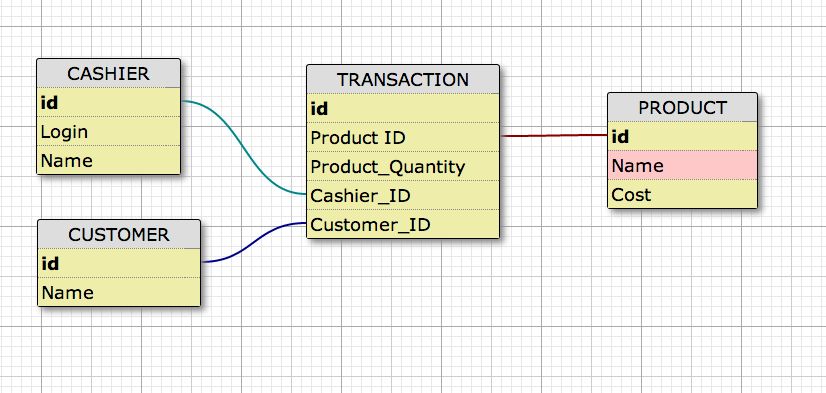
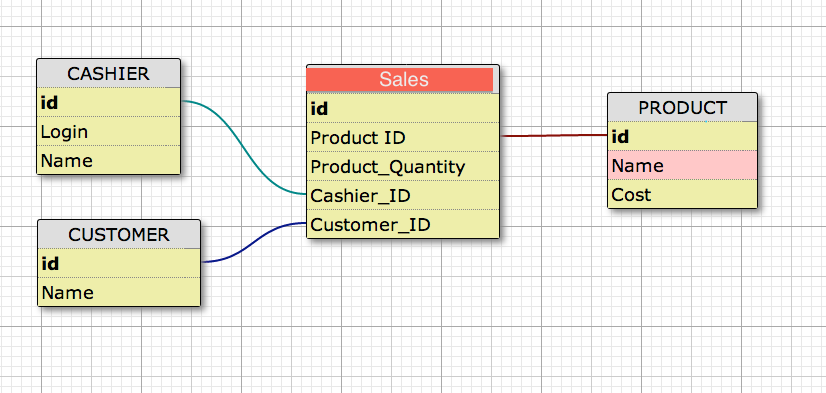
remigrate to clean up a couple of DB fields

Changed region(s): [[0.3632, 0.1527, 0.6053, 0.2443]]

diff --git a/spec/spec_helper.rb b/spec/spec_helper.rb
@@ -1,11 +1,13 @@
 require 'pg'
 require 'active_record'
 require 'rspec'
+require 'shoulda-matchers'
 
 require 'cashier'
 require 'customer'
 require 'product'
-require 'transaction'
+require 'product_sales'
+require 'sale'
 
 ActiveRecord::Base.establish_connection(YAML::load(File.open('./db/config.yml'))["test"])
 
@@ -14,13 +16,15 @@ RSpec.configure do |config|
     Customer.all.each { |customer| customer.destroy }
     Cashier.all.each { |cashier| cashier.destroy }
     Product.all.each { |product| product.destroy }
-    Transaction.all.each { |transaction| transaction.destroy }
+    Sale.all.each { |sale| sale.destroy }
+    Product_Sales.all.each {|product_sale| product_sale.destroy}
   end
 end
 
 def setup
   @test_customer = Customer.new({:name => "Jack Customer"})
   @test_cashier = Cashier.new({:name => "Jill Cashier"})
-  @test_transaction = Transaction.new({:product_id => 1, :product_quantity => 1, :cashier_id => 1, :customer_id => 1})
+  @test_sale = Sale.new({:product_id => 1, :product_quantity => 1, :cashier_id => 1, :customer_id => 1})
   @test_product = Product.new({:name => "Pampers Ultra", :cost => 29.99})
+  @test_product_sales = Product_Sales.new({:product_id => @test_product.id, :sale_id => @test_sale.id})
 end

diff --git a/db/schema.rb b/db/schema.rb
@@ -11,7 +11,7 @@
 #
 # It's strongly recommended that you check this file into your version control system.
 
-ActiveRecord::Schema.define(version: 20140820172950) do
+ActiveRecord::Schema.define(version: 20140820205809) do
 
   # These are extensions that must be enabled in order to support this database
   enable_extension "plpgsql"
@@ -29,14 +29,22 @@ ActiveRecord::Schema.define(version: 20140820172950) do
     t.datetime "updated_at"
   end
 
+  create_table "product_sales", force: true do |t|
+    t.integer  "sale_id"
+    t.integer  "product_id"
+    t.datetime "created_at"
+    t.datetime "updated_at"
+  end
+
   create_table "products", force: true do |t|
     t.string   "name"
     t.float    "cost"
     t.datetime "created_at"
     t.datetime "updated_at"
+    t.integer  "sale_id"
   end
 
-  create_table "transactions", force: true do |t|
+  create_table "sales", force: true do |t|
     t.integer  "product_id"
     t.integer  "product_quantity"
     t.integer  "cashier_id"

diff --git a/spec/sale_spec.rb b/spec/sale_spec.rb
@@ -1,0 +1,24 @@
+require 'spec_helper'
+
+describe Sale do
+  before do
+    setup
+  end
+
+  it {should belong_to :customer}
+  it {should belong_to :cashier}
+
+
+  it 'will store a transaction in the DB' do
+    @test_sale.save
+    expect(Sale.all).to eq [@test_sale]
+  end
+
+  it 'will create a transaction instance with each method details available' do
+    @test_product_sales.save
+    expect(@test_sale.customer_id).to eq 1
+    expect(@test_sale.cashier_id).to eq 1
+    expect(@test_sale.product_id).to eq 1
+    expect(@test_sale.product_quantity).to eq 1
+  end
+end

diff --git a/spec/product_sales_spec.rb b/spec/product_sales_spec.rb
@@ -1,0 +1,14 @@
+require "spec_helper"
+
+describe Product_Sales do
+  before do
+    setup
+  end
+
+  it {should belong_to :sale}
+
+  it "will store a product_sale in the DB" do
+    @test_product_sales.save
+    expect(Product_Sales.all).to eq [@test_product_sales]
+  end
+end

diff --git a/db/migrate/20140820205809_add_timestamp_product_sales.rb b/db/migrate/20140820205809_add_timestamp_product_sales.rb
@@ -1,0 +1,6 @@
+class AddTimestampProductSales < ActiveRecord::Migration
+  def change
+      add_column(:product_sales, :created_at, :datetime)
+      add_column(:product_sales, :updated_at, :datetime)
+  end
+end

diff --git a/db/migrate/20140820205117_create_product_sales.rb b/db/migrate/20140820205117_create_product_sales.rb
@@ -1,0 +1,8 @@
+class CreateProductSales < ActiveRecord::Migration
+  def change
+    create_table :product_sales do |t|
+      t.column :sales_id, :int
+      t.column :product_id, :int
+    end
+  end
+end

diff --git a/spec/customer_spec.rb b/spec/customer_spec.rb
@@ -5,6 +5,8 @@ describe Customer do
     setup
   end
 
+  it {should have_many :sales}
+
   it "exists in the customer table" do
     @test_customer.save
     expect(Customer.all).to eq [@test_customer]

diff --git a/spec/cashier_spec.rb b/spec/cashier_spec.rb
@@ -5,6 +5,8 @@ describe Cashier do
     setup
   end
 
+  it {should have_many :sales}
+
   it 'will store a cashier in the DB' do
     @test_cashier.save
     expect(Cashier.all).to eq [@test_cashier]

diff --git a/spec/product_spec.rb b/spec/product_spec.rb
@@ -5,6 +5,8 @@ describe Product do
     setup
   end
 
+  it {should belong_to :sale}
+
   it "will store a product in the DB" do
     @test_product.save
     expect(Product.all).to eq [@test_product]

diff --git a/db/migrate/20140820205601_change_column_name_product_sales_sales_id.rb b/db/migrate/20140820205601_change_column_name_product_sales_sales_id.rb
@@ -1,0 +1,5 @@
+class ChangeColumnNameProductSalesSalesId < ActiveRecord::Migration
+  def change
+    rename_column(:product_sales, :sales_id, :sale_id)
+  end
+end

diff --git a/lib/customer.rb b/lib/customer.rb
@@ -1,7 +1,4 @@
 class Customer < ActiveRecord::Base
-
-  # def initialize
-
-  # end
-
+  has_many :sales
+  has_many :cashiers, :through => :sales
 end

diff --git a/db/migrate/20140820190740_rename_transaction_table.rb b/db/migrate/20140820190740_rename_transaction_table.rb
@@ -1,0 +1,5 @@
+class RenameTransactionTable < ActiveRecord::Migration
+  def change
+    rename_table :transactions, :sales
+  end
+end
